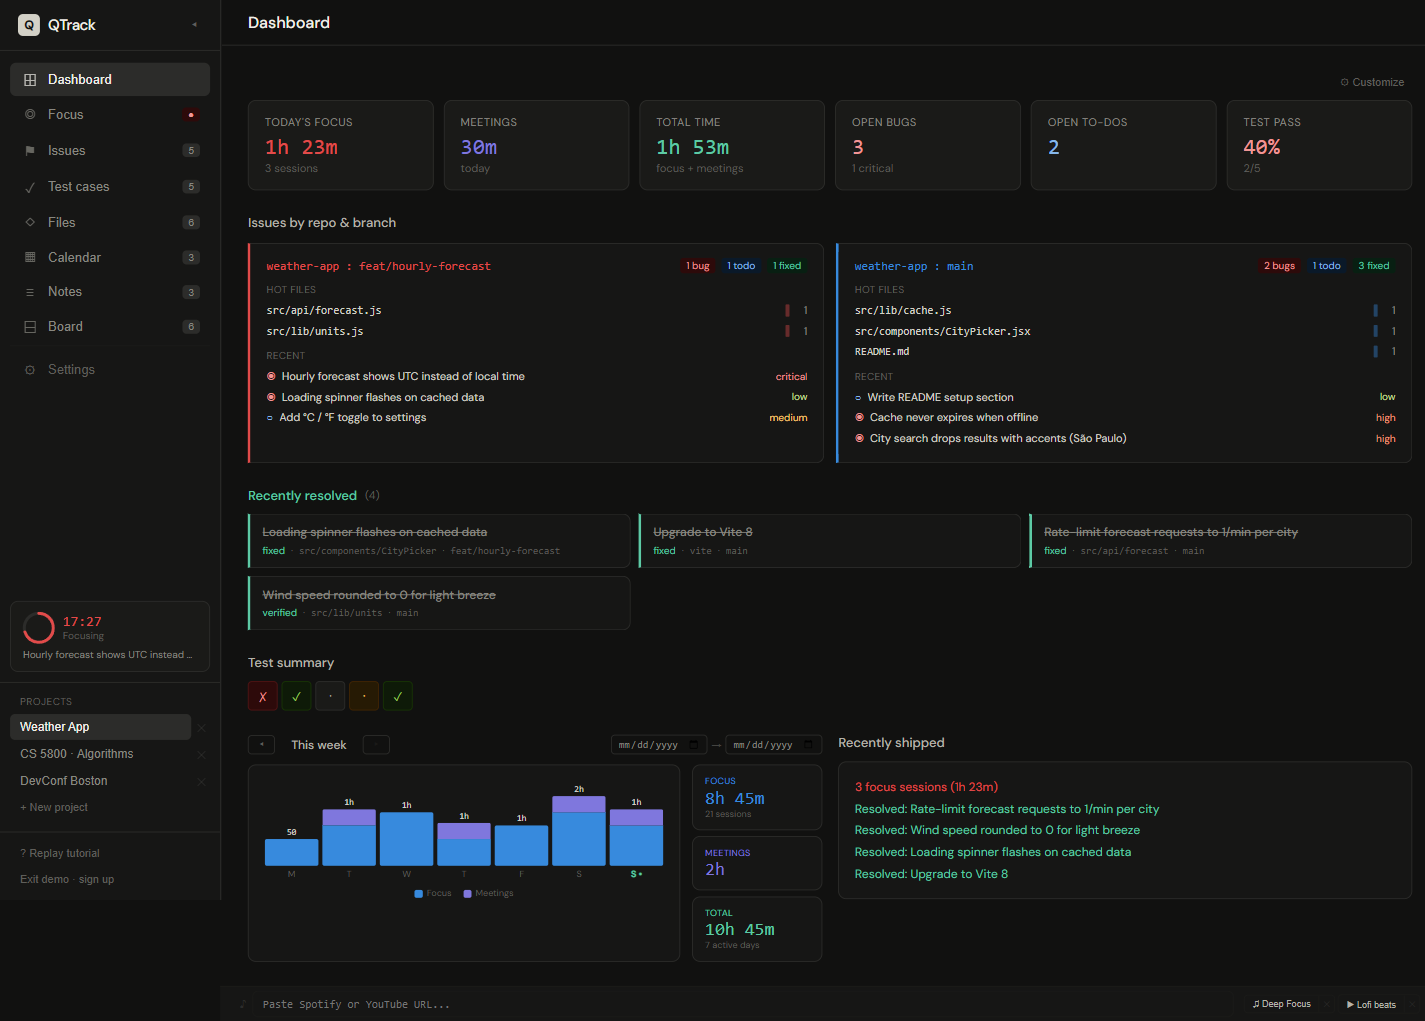
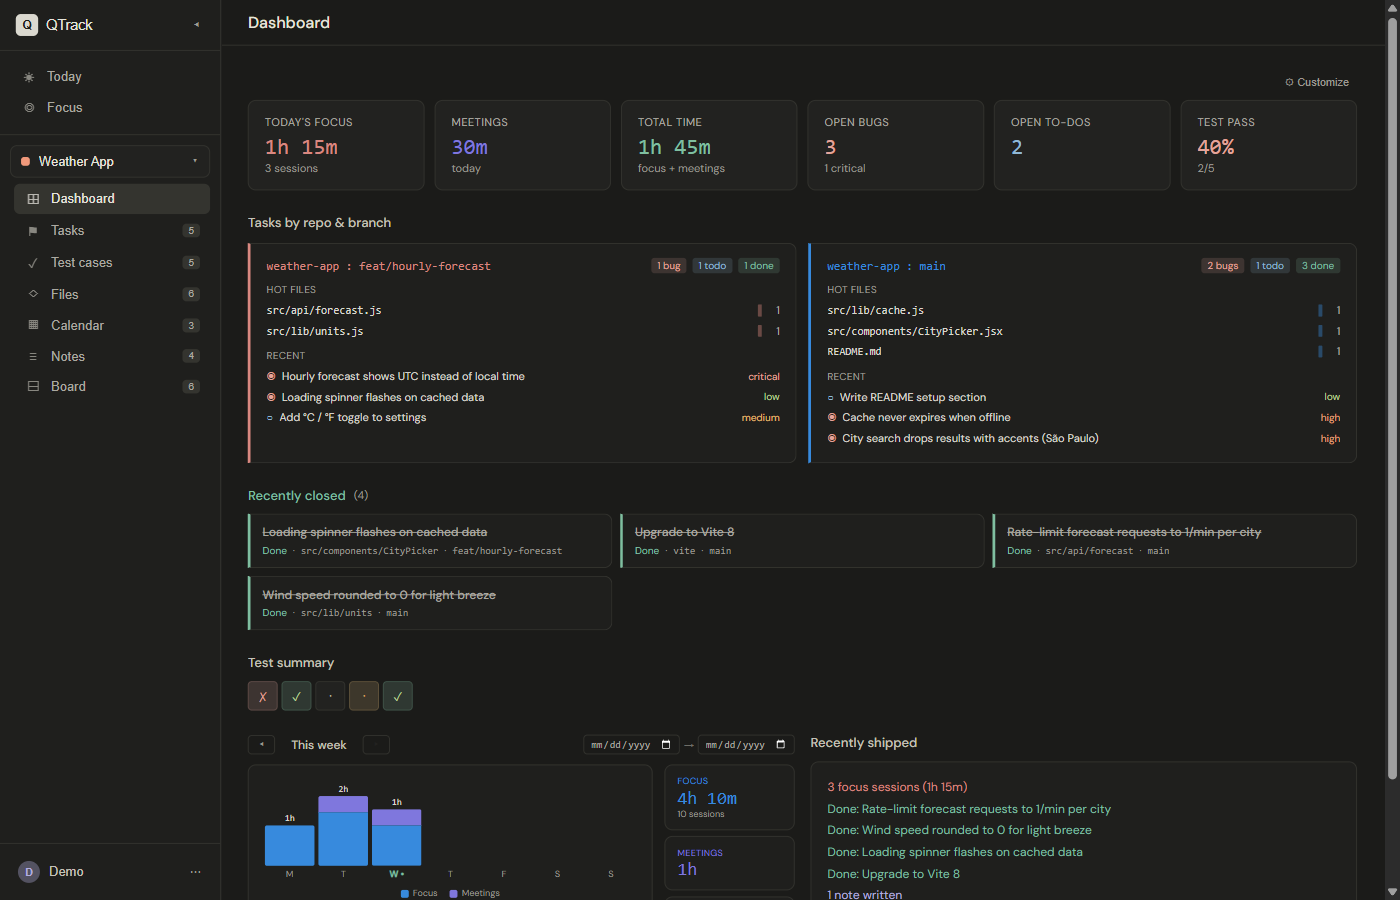
docs: refresh README for Today, MCP, themes and the new setup
- New pitch and a Today hero screenshot; all six screenshots retaken
  from the demo in the Calm theme.
- Features reordered (Today, Focus, Tasks, Study, Calendar, Dashboard)
  with Just start, Replan, the details panel, focus chart, daily goal,
  statuses, projects, themes and the phone layout.
- New "Use with Claude (MCP)" section: connect, tools, safety.
- Tech stack, migrations-based Supabase setup (with the baseline gap
  noted), project structure and a short roadmap.

diff --git a/README.md b/README.md
@@ -1,75 +1,115 @@
 # QTrack
 
-A personal workspace for developers, students, and anyone who lives in their notes. It brings a Pomodoro focus timer, tasks, meetings, notes, and study material together in one dark-themed app.
+A calm focus workspace for developers, students, and anyone whose day doesn't go in a straight line. A Pomodoro timer, tasks, meetings, notes and study material live together, and your AI assistant can run it with you.
 
-Queue up what you need to do and run focus sessions against it. Keep notes with code and diagrams, and walk into meetings with an agenda that's already filled in. You can also read PDFs and turn highlights into notes. Developers get tasks, test cases, and repo/branch tracking. Students and note-takers get study topics, a PDF reader, and a notes space that links everything together.
+Today shows what's running, what's next, what slipped from yesterday, and how much you've focused, across every project. Start a full pomodoro, or just five minutes when starting is the hard part. When the day slips, replan it in one go without guilt. Ask Claude to add tasks, break one into steps, or start the timer, and every change it makes can be undone.
 
 **[▶ Try the live demo](https://qtrack-steel.vercel.app/demo)** (no sign-up needed) · [Create an account](https://qtrack-steel.vercel.app/)
 
-![Focus view: a running Pomodoro on a bug, with its checklist and linked notes in the side drawer](docs/screenshots/focus.png)
+![Today: the Now card with Just start, a focus chart by hour and project, leftovers from earlier with Replan, Up next and Due today](docs/screenshots/today.png)
 
 ---
 
 ## Features
 
+### ☀ Today
+The default screen, across all your projects.
+
+- **Now**: the running timer with Pause / Done. When nothing is running, **Just start · 5 min** gets you going on the next task. After 5 minutes it asks *Keep going?*: +20 makes a full pomodoro, Stop logs the 5 minutes
+- **Focus chart**: minutes per hour today, or per day for a week, a month or a custom range. Bars are split by project color, and you can filter to a few projects. Your choice is remembered
+- **From earlier**: tasks that slipped, labelled *from yesterday* / *from Thu*. **Replan** sends each to Today (and Up next), Tomorrow, Later, or lets it go, then offers Undo
+- **Up next**, **Due today**, today's **meetings**, and quick **scribbles**
+- Click any task to open its **details panel** (a bottom sheet on phones): change status, priority, due date and estimate, tick the checklist, see focus time and links, then Focus, Done, Skip or open it in its project
+
 ### ◎ Focus
 A Pomodoro timer that knows what you're working on.
 
-- 25 / 5 / 15 cycle with a long break after every 4 sessions, plus browser notifications and a chime
-- Attach a session to a task, test case, or study topic. Pomodoros are counted against each task's estimate
+![Focus: a running pomodoro on a bug, the daily goal bar, and the task's checklist and linked note in the side drawer](docs/screenshots/focus.png)
+
+- 25 / 5 / 15 cycle with a long break after every 4, plus browser notifications and a chime
+- Attach a session to a task, test case or study topic. Pomodoros count against the task's estimate
+- **Daily goal** in pomodoros, saved to your account. Progress is today's focus time across all projects, so switching projects doesn't change it
 - Pause with a reason (*waiting*, *interrupted*). That time is logged separately and doesn't count as focus
-- **Up next** queue you can reorder by dragging
-- **Context drawer** for the current task, with a step checklist and a scratchpad that saves to the linked note
-- The timer is saved to the server, so it survives refreshes and syncs across devices
-- Log past work manually, get break ideas (with a 🏢 office / 🏠 home toggle), and play music from YouTube or Spotify in the bottom dock
-
-### ★ Study mode
-Topics, PDFs, and notes in one place.
-
-![Study mode: a PDF with highlights next to a rendered note with a Mermaid graph and Python code](docs/screenshots/study.png)
-
-- Group material into **topics**. Each topic shows its note count and the time you've studied it
-- Upload PDFs and read them in the built-in reader (pdf.js). **Select text to highlight it and create a note**, and click a highlight to jump back to that note
-- Study notes render full **Markdown**, **Mermaid** diagrams, and syntax-highlighted code
-- Start a study timer from any topic. That time feeds the topic stats and your dashboard
-
-### ≡ Notes
-- Categories (*scratch, decision, investigation, meeting*) and pinning
-- Fenced code blocks with syntax highlighting
-- Link a note to a task, test case, file, repo, or meeting
-
-### ▦ Calendar & meetings
-Walk into every meeting already prepared.
-
-![Meeting view: the agenda is filled in automatically with work shipped and in progress since the last sync](docs/screenshots/meeting.png)
-
-- Month calendar with meetings (including recurring ones) and due dates from tasks
-- **Tag a task or note with a meeting** and it shows up on that meeting's agenda, grouped into *shipped*, *in progress*, and *notes*. Only items that changed since the last meeting you attended are included
-- Join a meeting to get a timer and a notes pad that saves automatically. Track attendance, cancellations, and talking points
+- **Context drawer** with the task's steps and a scratchpad that saves to its linked note
+- The timer lives on the server, so it survives refreshes and syncs across devices
+- Log past work manually, get break ideas (🏢 office / 🏠 home), and play music from YouTube or Spotify in the bottom dock
 
 ### ⚑ Tasks & test cases
-Lightweight tracking for code you're working on.
 
-![Tasks view: bugs and todos with priority, status, repo/branch, pomodoro progress, and linked test cases](docs/screenshots/issues.png)
+![Tasks: bugs and to-dos with priority, status, repo/branch, pomodoro progress and linked test cases](docs/screenshots/issues.png)
 
-- **Tasks** are bugs or todos, with priority, status, due date, estimated pomodoros, and repo/branch. Attaching a file is optional, so general todos work too
-- **Test cases** have preconditions, inline-editable steps with expected results, and pass/fail/blocked status
-- Link tasks to test cases. Filter, sort, switch between cards and a list, and add any task to the focus queue with one click
+- **Tasks** are bugs or to-dos with priority, due date, estimated pomodoros and repo/branch. Status is **To do · In progress · Done · Skipped**: letting a task go is a valid outcome
+- **Test cases** have preconditions, inline-editable steps with expected results, and pass / fail / blocked
+- Link tasks to test cases, filter and sort, switch between cards and a list, and queue anything with one click
+
+### ★ Study mode
+
+![Study mode: a lecture PDF with highlights next to the topic's notes](docs/screenshots/study.png)
+
+- Group material into **topics**, each with its notes and study time
+- Read PDFs in the built-in reader. **Select text to highlight it and create a note**; click a highlight to jump back to the note
+- Notes render **Markdown**, **Mermaid** diagrams and syntax-highlighted code
+- Start a study timer from any topic
+
+### ▦ Calendar & meetings
+
+![Calendar: a meeting's agenda preview filled in with work shipped and in progress since the last sync](docs/screenshots/meeting.png)
+
+- Month calendar with meetings (including recurring ones) and due dates
+- **Tag a task or note with a meeting** and it lands on that meeting's agenda, grouped into *shipped*, *in progress* and *notes*, counting only what changed since the last meeting you attended
+- Join a meeting for a timer and an auto-saving notes pad. Track attendance, cancellations and talking points
 
 ### ⊞ Dashboard
 
-![Dashboard: today's stats, tasks grouped by repo and branch, recently resolved work, and a weekly focus chart](docs/screenshots/dashboard.png)
+![Dashboard: today's stats, open work by repo and branch, recently closed items and a weekly focus chart](docs/screenshots/dashboard.png)
 
-- Today's focus and meeting time, open bugs and todos, and test pass rate
-- Open work grouped by **repo : branch**, with "hot" files
-- Recently resolved items, and a weekly focus/meetings chart you can page through by week
-- Pick which widgets the dashboard shows, and choose which sidebar tabs each project shows in **Settings**
+- Today's focus and meeting time, open bugs and to-dos, test pass rate
+- Open work grouped by **repo : branch**, with "hot" files, and recently closed items
+- A weekly focus / meetings chart you can page through
 
 ### And also
-- **Board:** a sticky-note Kanban per project. Cards can become tasks
-- **Workshop projects:** a project type for conferences, with *Sessions* (speaker, track, rating) and *People* you met with follow-ups. Its dashboard collects lines starting with `!` (action items), `?` (questions), and `★` (insights) from your notes
-- **News** *(premium)*: an AI-curated feed for topics you choose, served by a Supabase Edge Function
-- **Guided tour** on first visit, which you can replay from the sidebar
+- **Projects**: a switcher with search, recent projects and open-task counts (Ctrl/Cmd+K), a color per project, archive and restore, and delete with a confirmation that lists what will be lost
+- **Themes**: Calm (default), Soft, High contrast, Light, Blush, Hero, Black & Gold, Red & Gold, or System to follow your device. Every theme passes WCAG contrast for labels and controls. Pick one from the account menu ([side-by-side preview](docs/proposals/color-palette/mock.png))
+- **Phone layout** with a bottom tab bar and a More sheet
+- **Notes** with categories, pinning, code blocks, and links to tasks, files, repos and meetings
+- **Board**: a sticky-note Kanban per project; cards can become tasks
+- **Workshop projects** for conferences: sessions, people you met, and an action-item / question / insight digest from your notes
+- **News** *(premium)*: an AI-curated feed for topics you choose
+- A **guided tour** on first visit, which you can replay from the account menu
+
+---
+
+## Use with Claude (MCP)
+
+QTrack runs a remote [MCP](https://modelcontextprotocol.io) server, so Claude (or any MCP client) can read and change your QTrack with you. You sign in with your own account through OAuth; there are no API keys to copy.
+
+**Connect** from **Assistant access** in the account menu, which shows the URL and the command. For Claude Code:
+
+```bash
+claude mcp add --transport http --scope user qtrack https://jsbazeewkiaisdsohtav.supabase.co/functions/v1/mcp
+```
+
+Then run `/mcp`, pick `qtrack`, and approve access. In Claude.ai or Claude Desktop, add the same URL as a custom connector.
+
+**What it can do**
+
+| Reads | Changes |
+|---|---|
+| `get_today`: up next, due, meetings, scribbles | `start_focus` / `pause_focus` / `resume_focus` / `stop_focus` |
+| `search_tasks`: find a task by name | `add_task`, `add_to_queue`, `capture_note` |
+| `get_focus_stats`: today or the last 7 days | `update_task`: status, priority, due date, title |
+| `get_timer`: what's running right now | `break_down_task`: write small steps into the checklist |
+| `list_projects` | `replan_day`: move leftovers to today / tomorrow / later / let go |
+| | `log_focus`: record pomodoros done without the timer |
+| | `archive_project` / `restore_project`, `delete_task`, `undo` |
+
+**Safety**
+- Changes are **off until you turn on** "Let assistants make changes" in Assistant access
+- Every call is logged there, and any change can be **undone for 10 minutes**, from the app or by asking
+- At most 60 changes an hour; destructive tools ask the assistant to confirm with you first
+- You can see and revoke connected apps at any time
+
+Tool details and server setup: [supabase/README.md](supabase/README.md).
 
 ---
 
@@ -77,9 +117,11 @@ Lightweight tracking for code you're working on.
 
 | Layer | Choice |
 |---|---|
-| UI | React 19 (inline styles, no UI library), DM Sans |
+| UI | React 19 with inline styles and CSS-variable themes, DM Sans |
 | Build | Vite 8 |
-| Backend | Supabase: Postgres with Row Level Security, Auth (email, GitHub, Google), Storage, Realtime, Edge Functions |
+| Backend | Supabase: Postgres with Row Level Security, Auth (email, GitHub, Google, OAuth 2.1 server), Storage, Realtime, Edge Functions |
+| MCP server | Supabase Edge Function (Deno) using `@modelcontextprotocol/server`, sharing query code with the web app |
+| Tests | Vitest, running the MCP tools against the in-browser demo database |
 | Loaded on demand | `pdfjs-dist` and `mermaid` from esm.sh, YouTube IFrame API |
 | Hosting | Vercel |
 
@@ -111,31 +153,42 @@ Then:
 
 ```bash
 npm run dev       # http://localhost:5173  (demo mode: http://localhost:5173/demo)
+npm test          # Vitest
 npm run build     # production build → dist/
 npm run preview   # serve the build locally
 ```
 
-Demo mode doesn't need Supabase at all, so `/demo` works even before you've set up `.env`.
+Demo mode doesn't need Supabase at all, so `/demo` works before you've set up `.env`.
 
 ### Supabase setup
 
-The app expects these tables, each scoped by `user_id` with RLS:
+The Supabase CLI is a dev dependency, so use it through `npx`:
 
+```bash
+npx supabase login
+npx supabase link --project-ref <your-project-ref>
+npx supabase db push --remote                          # apply supabase/migrations
+npx supabase functions deploy mcp --no-verify-jwt      # the MCP server
 ```
-projects          files            issues           test_cases
-issue_test_links  focus_sessions   timer_state      task_queue
-meetings          notes            study_docs       study_highlights
-board_columns     board_cards      workshop_people  news_cache
-user_profiles
-```
+
+> **Known gap:** the migrations only cover the newer tables (`mcp_calls`, `mcp_settings`, `user_settings`, project archive and color, timer and status changes). The original tables were created by hand, so a brand-new project also needs:
+>
+> ```
+> projects          files            issues           test_cases
+> issue_test_links  focus_sessions   timer_state      task_queue
+> meetings          notes            study_docs       study_highlights
+> board_columns     board_cards      workshop_people  news_cache
+> user_profiles
+> ```
+>
+> Each is scoped by `user_id` with RLS. The columns are in [`src/storage.js`](src/storage.js), and [`src/demo/seed.js`](src/demo/seed.js) shows the shape of each record. A full baseline migration is on the roadmap.
 
 You'll also need:
 - A Storage bucket named **`study-docs`** for PDFs
 - Realtime enabled on `timer_state` for cross-device timer sync
-- Email auth, plus GitHub/Google providers if you want them. Add your dev and prod URLs to the allowed redirect URLs
-- *(Optional)* An Edge Function named **`news-feed`** for the News tab
-
-> The exact columns each table uses are in [`src/storage.js`](src/storage.js). The sample rows in [`src/demo/seed.js`](src/demo/seed.js) show the expected shape of each record.
+- Email auth, plus GitHub/Google if you want them, with your dev and prod URLs in the allowed redirect URLs
+- For the MCP server: the OAuth 2.1 server and dynamic client registration turned on in Auth settings, and `/oauth/consent` as the authorization path (see [supabase/README.md](supabase/README.md))
+- *(Optional)* an Edge Function named **`news-feed`** for the News tab
 
 ---
 
@@ -143,14 +196,31 @@ You'll also need:
 
 ```
 src/
-├── main.jsx              # Auth gate: <Auth/> or <App/> depending on the session
-├── Auth.jsx              # Sign in / sign up / "Try the demo"
-├── App.jsx               # Every view: Focus, Dashboard, Tasks, Notes, Study, Calendar, …
-├── storage.js            # Data layer: all Supabase queries, grouped by domain
-├── supabaseClient.js     # Real Supabase client, or the demo client on /demo
-└── demo/
-    ├── mockSupabase.js   # In-browser stand-in for the Supabase client (localStorage-backed)
-    └── seed.js           # Sample projects: a dev project, a course, and a conference
-public/demo/              # Sample PDF used by the demo
-docs/screenshots/         # Images used in this README
+├── main.jsx                # Auth gate and OAuth consent routing; applies the theme
+├── App.jsx                 # Shell and most views: Focus, Dashboard, Tasks, Notes, Study, Calendar, …
+├── views/                  # TodayView, AssistantView
+├── components/             # Sidebar, TaskDetailsPanel, FocusChart, ReplanDialog, project colors
+├── theme.js                # Theme tokens (CSS variables) and the theme picker's data
+├── storage.js              # Data layer: Supabase queries grouped by domain
+├── OAuthConsent.jsx        # "Allow access" page for assistants
+├── supabaseClient.js       # Real Supabase client, or the demo client on /demo
+└── demo/                   # In-browser Supabase stand-in and sample data
+supabase/
+├── migrations/             # SQL migrations
+└── functions/
+    ├── _shared/            # Queries, actions and statuses shared by the app and the MCP server
+    └── mcp/                # The MCP Edge Function and its tools
+tests/                      # Vitest: MCP tools, statuses, focus chart, project archive
+docs/
+├── screenshots/            # Images used in this README
+└── proposals/              # Design proposals and mockups (MCP, Today, themes, competitor notes)
 ```
+
+---
+
+## Roadmap
+
+- **Mobile apps** for the Play Store and App Store (Capacitor), with native timer notifications
+- **Sign in with Apple** and **delete account** in the app (store requirements)
+- A **baseline migration** so a new Supabase project can be set up from migrations alone
+- Calmer wording across the app, and a multitasking-friendly focus mode
